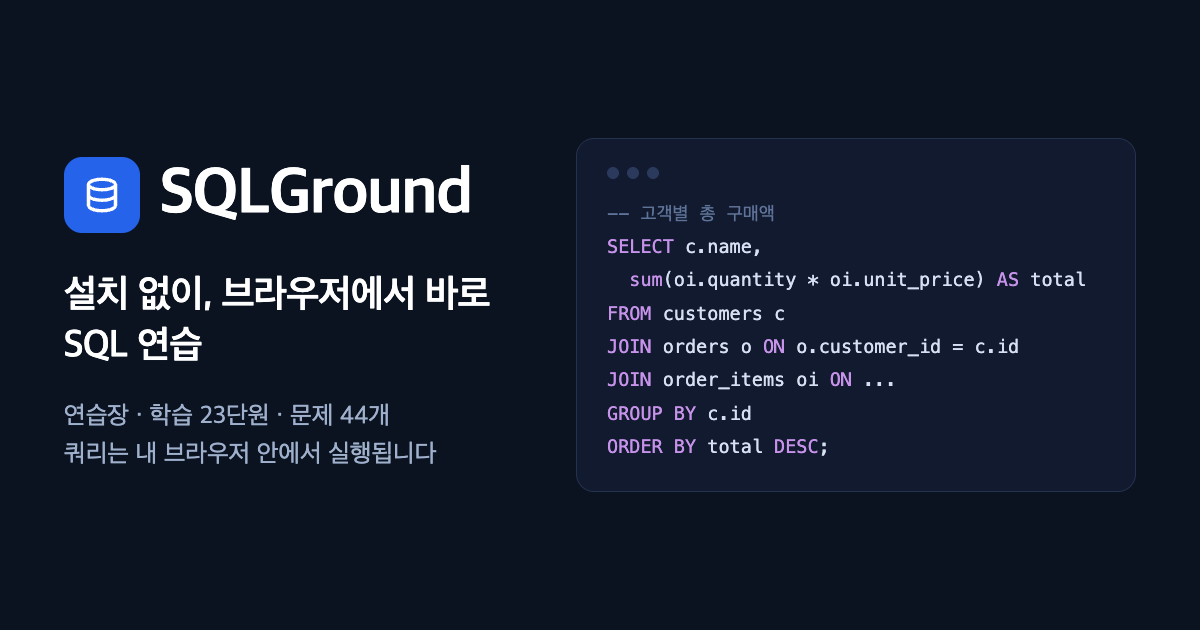
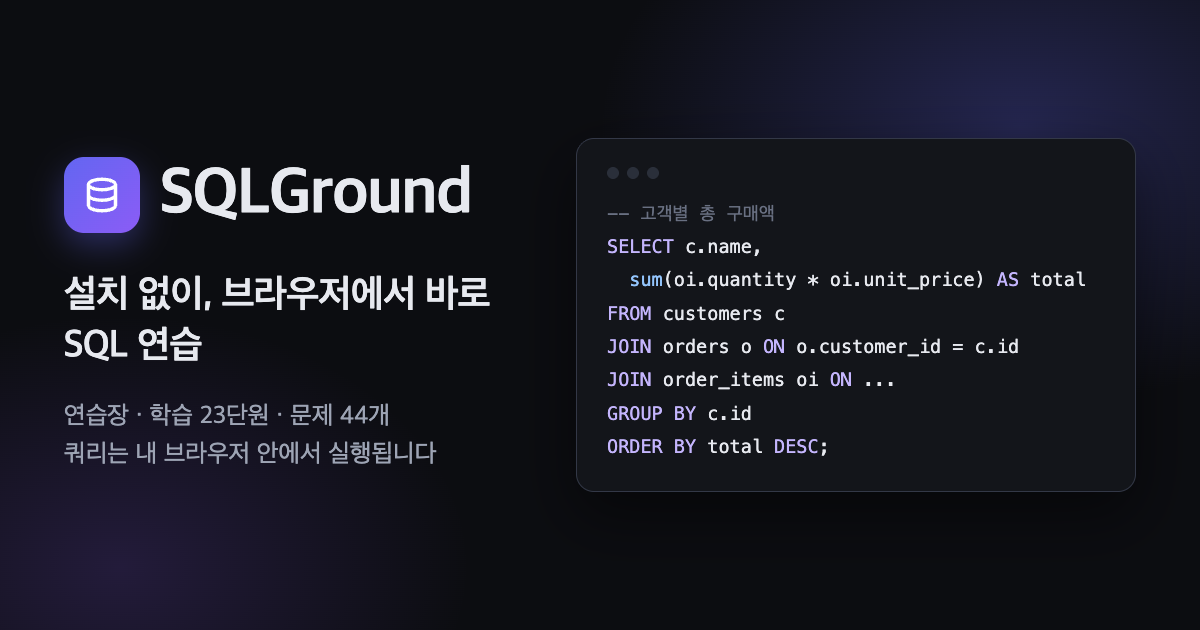
feat: UI 재설계 마무리 (다크 관계도, 파비콘·OG 재제작, 테스트 서버 재사용 해제)
Claude-Session: https://claude.ai/code/session_01TzWVfSpWkWgA4adUBxEpqE

diff --git a/src/views/ErdView.tsx b/src/views/ErdView.tsx
@@ -179,7 +179,7 @@ export function ErdView({ onClose, onSelectTable, onInsertRow, onAlterTable, onD
                     svgRef.current?.setPointerCapture(e.pointerId)
                   }}
                 >
-                  <rect width={b.width} height={b.height} rx="6" className={selected === b.table ? 'fill-white stroke-accent' : 'fill-white stroke-line-strong'} strokeWidth={selected === b.table ? 2 : 1} />
+                  <rect width={b.width} height={b.height} rx="6" className={selected === b.table ? 'fill-surface stroke-accent' : 'fill-surface stroke-line-strong'} strokeWidth={selected === b.table ? 2 : 1} />
                   <rect width={b.width} height={HEADER_HEIGHT} rx="6" className="fill-accent" />
                   <rect y={HEADER_HEIGHT - 6} width={b.width} height="6" className="fill-accent" />
                   <text x="10" y={HEADER_HEIGHT / 2 + 4} className="fill-white text-[13px] font-semibold">

diff --git a/index.html b/index.html
@@ -6,7 +6,7 @@
     <meta name="viewport" content="width=device-width, initial-scale=1.0" />
     <title>SQLGround · 설치 없이 브라우저에서 SQL 연습</title>
     <meta name="description" content="DB 도 에디터도 설치할 필요 없이 브라우저에서 바로 SQL 을 연습하세요. 연습장, 23단원 학습, 44개 문제. 쿼리는 내 브라우저 안에서 실행됩니다." />
-    <meta name="theme-color" content="#2563eb" />
+    <meta name="theme-color" content="#4f46e5" />
     <link rel="canonical" href="https://sqlground.vercel.app/" />
     <meta property="og:type" content="website" />
     <meta property="og:site_name" content="SQLGround" />

diff --git a/playwright.config.ts b/playwright.config.ts
@@ -17,7 +17,8 @@ export default defineConfig({
   webServer: {
     command: `pnpm build && pnpm preview --port ${PORT} --strictPort`,
     url: `http://localhost:${PORT}`,
-    reuseExistingServer: !process.env.CI,
+    // 어제 남아 있던 옛 서버를 재사용해 헛도는 일이 있었다. 항상 새로 빌드해 돌린다
+    reuseExistingServer: false,
     timeout: 120_000,
   },
 })

diff --git a/DESIGN.md b/DESIGN.md
@@ -298,6 +298,18 @@ src/
 - 복구 지점: 연습장은 `run()` 이 실행 직전에 먼저 보내는 스냅샷, 학습·문제풀이는 샘플 로드 직후 `checkpoint()`
 - 주의: sql.js 의 `export()` 는 연결을 다시 열어 PRAGMA 와 열린 트랜잭션을 없앤다. export 를 부르는 모든 경로(스냅샷, 자동 저장)가 이 점을 고려해야 한다
 
+## 9-1. 디자인 시스템 (2026-09-18)
+
+방향: "정돈된 개발 도구" (Linear, Supabase 대시보드 느낌). 강조색 인디고·바이올렛.
+
+- 토큰: `src/index.css` 의 `@theme` 에 의미 기반 색을 정의하고 `.dark` 에서 값만 바꾼다. 컴포넌트는 `bg-surface`, `text-fg-muted`, `border-line`, `bg-accent` 같은 토큰 클래스만 쓰고 `dark:` 는 상태색(emerald/red/amber)에만 남긴다
+  - canvas(앱 바탕) / surface(카드·패널) / subtle(표 머리, 입력 뒤) / hover / line / fg 3단계 / accent, accent-soft, accent-fg
+- 글꼴: Pretendard Variable(본문), JetBrains Mono Variable(코드·그리드 숫자). npm 패키지로 자체 호스팅
+- 공통 부품: `.btn .btn-primary/.btn-ghost/.btn-outline/.btn-danger/.btn-sm`, `.btn-icon`, `.input`, `.card`, `.badge`, `.section-label`, `.kbd` (index.css @layer components)
+- 레이아웃: 바탕(canvas) 위에 패널이 카드(surface)로 뜬다. 패널 사이 여백이 크기 조절 핸들(`.resize-handle`)
+- 에디터: `src/components/editor/editor-theme.ts` 가 CSS 변수(`--syn-*`)로 구문 색을 정의. 세 에디터(연습장, 학습 예제, 문제풀이)가 `sqlExtensions()` 로 같은 테마를 쓴다. @uiw 기본 테마는 `theme="none"` 으로 끈다
+- 새 화면을 만들 때: 원시 색 클래스(neutral-*, blue-*)를 쓰지 말고 토큰과 공통 부품을 쓴다. 로고는 `components/layout/Logo.tsx`, 파비콘·OG 이미지와 같은 모양
+
 ## 10. 다음 후보
 
 - PostgreSQL(PGlite) 엔진, URL 공유, Supabase 로그인
